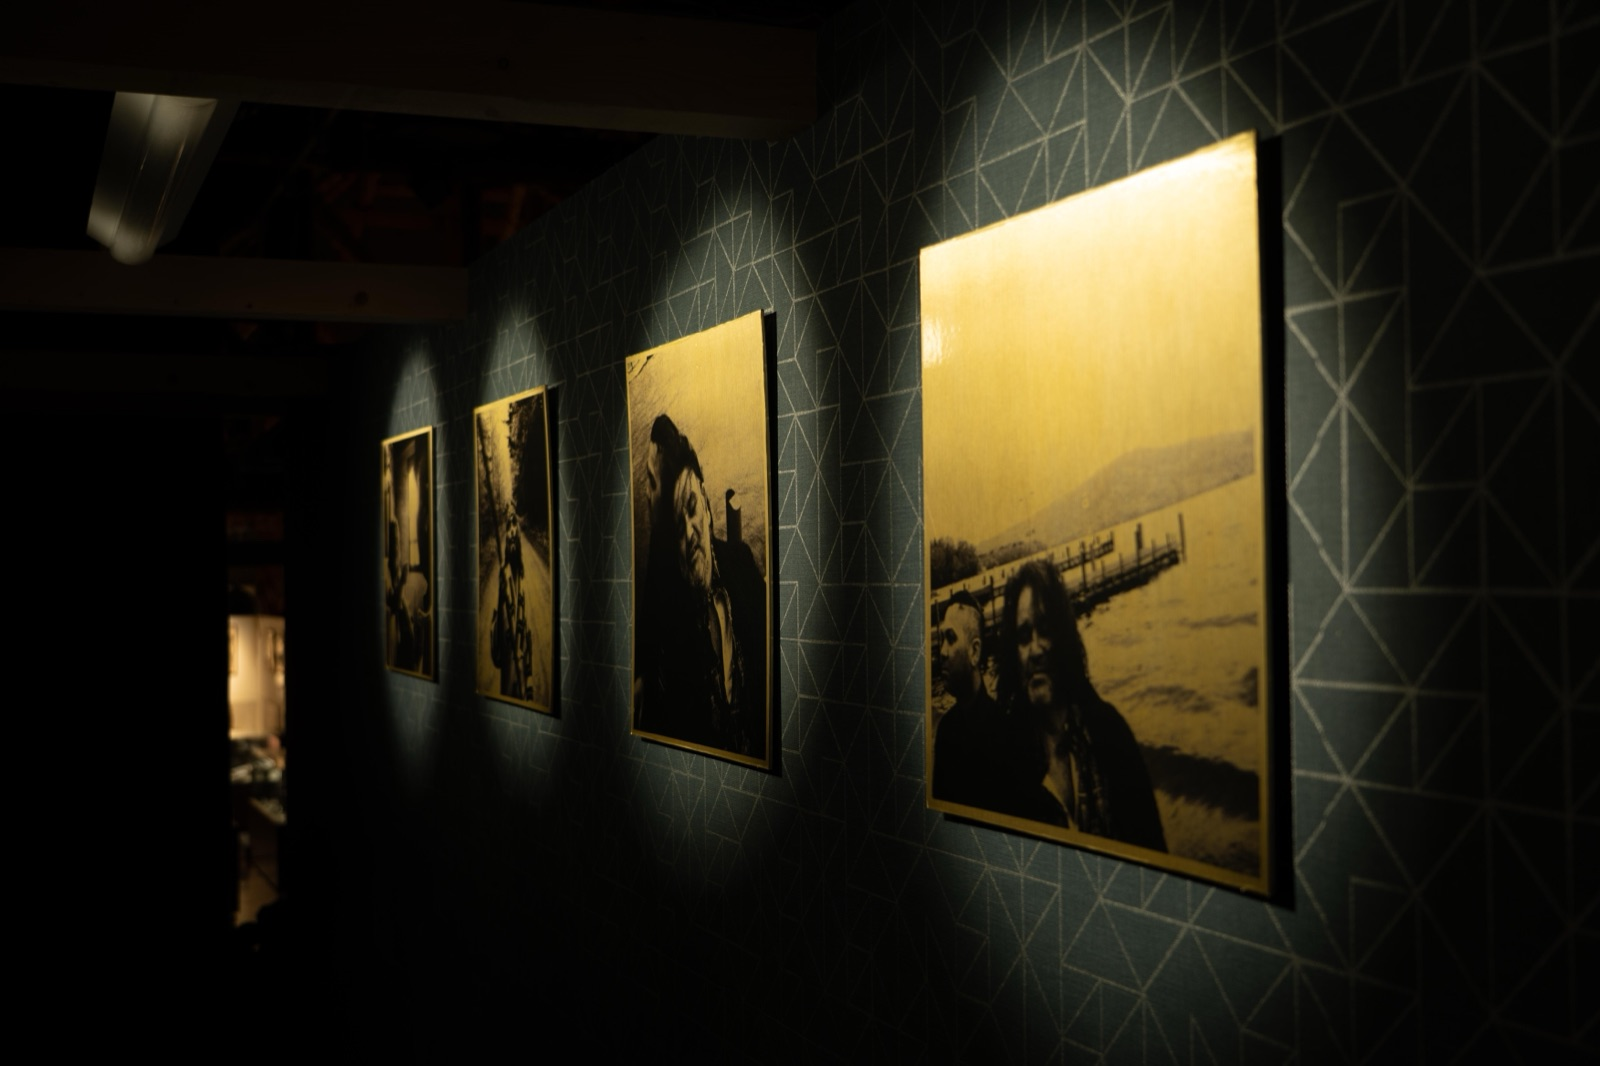
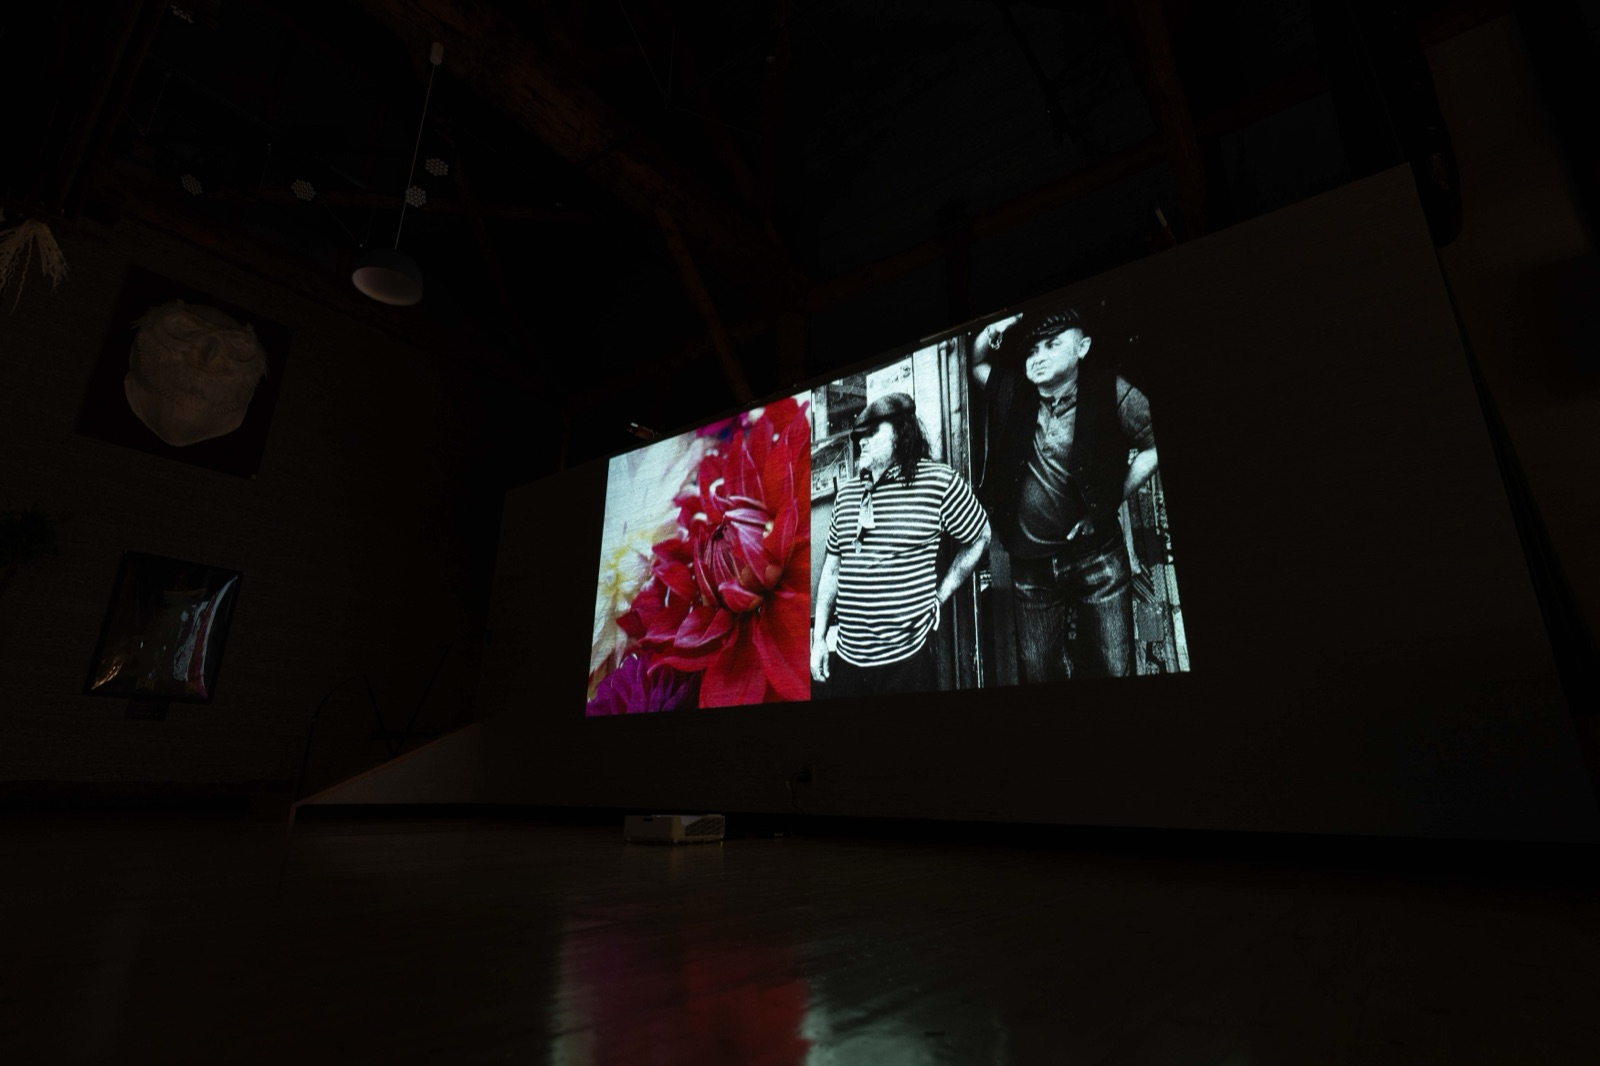
content: 残り写真を追加・13/16を修正／音声準備中のお知らせを追加
- 写真を全作品ぶん整備（No.04/07/13/17/21 を追加、計26作品すべてに写真）
- 修正: 以前No.16(西田)に出していた写真は鰹屋エリカさんのチンジリだったため、
  No.13=鰹屋エリカ / No.16=西田香代子 に正しく割り当て直し
- 音声が未登録の作品に「音声ガイドは準備中です」のお知らせを表示
  （対象: No.13/16/18/19/20/29）

diff --git a/src/styles/global.css b/src/styles/global.css
@@ -400,6 +400,18 @@ button:focus-visible {
   margin: 12px 0 0;
 }
 
+/* 音声ガイドが準備中のときのお知らせ */
+.audio-pending {
+  background: var(--surface);
+  border: 1px dashed var(--border);
+  border-radius: var(--radius-card);
+  padding: 16px 18px;
+  margin: 0;
+  color: var(--text-muted);
+  font-size: 0.92rem;
+  line-height: 1.7;
+}
+
 /* ---- YouTube 埋め込み（クリックで読み込むファサード） ---- */
 .yt {
   position: relative;
